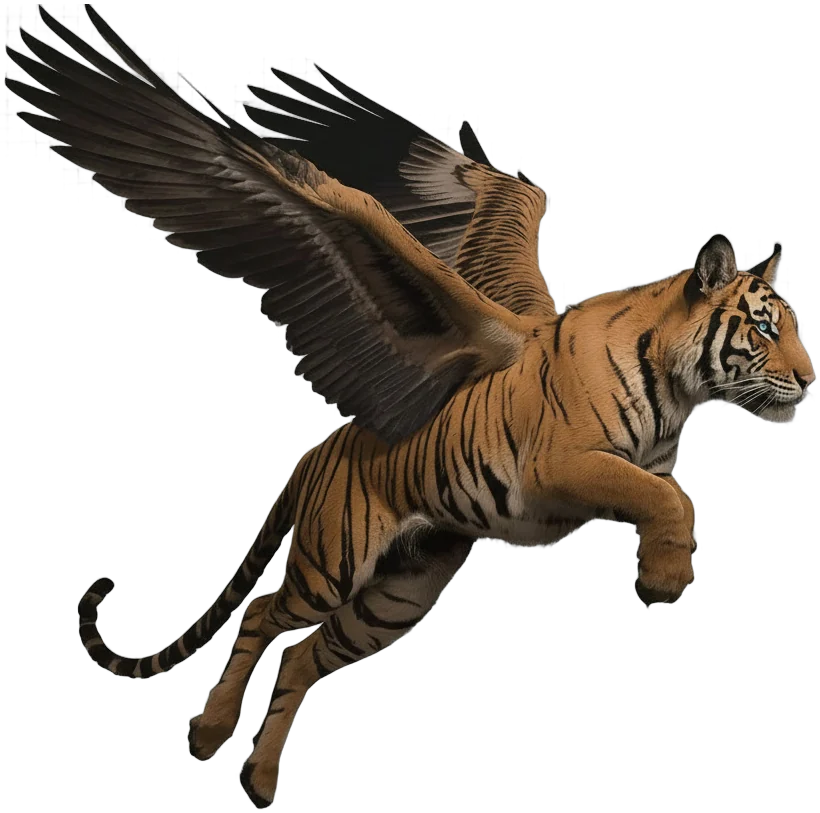
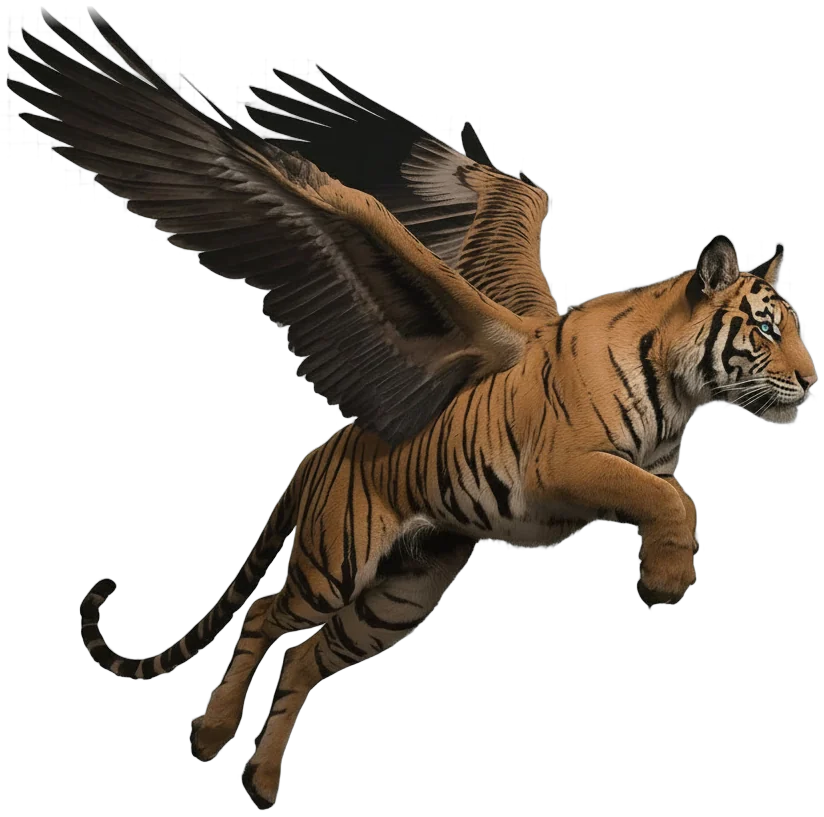
Vayun: hold still, sit fully below the nav bar, soften the clipped feather tip
Claude-Session: https://claude.ai/code/session_01Xr8Eng3FSk5QKfdhj2ow2v

diff --git a/index.html b/index.html
@@ -74,14 +74,9 @@
     }
   /* Vayun, the winged tiger, gliding through the sky band above the video */
   .sky-vayun { position: absolute; z-index: -2; pointer-events: none; height: auto;
-    width: min(calc(var(--hero-h) * .5), 34vw); left: 9vw;
-    top: calc(var(--hero-top) - var(--hero-h) * .5);
-    filter: brightness(.93) saturate(1.05) drop-shadow(0 6px 14px rgba(40, 10, 40, .35));
-    animation: vayun-glide 26s ease-in-out infinite alternate; }
-  @keyframes vayun-glide {
-    0%   { transform: translate(0, 0) rotate(-2deg); }
-    50%  { transform: translate(14vw, -1.2vw) rotate(1deg); }
-    100% { transform: translate(28vw, .4vw) rotate(-1deg); } }
+    width: min(calc(var(--hero-h) * .5), 34vw); left: 12vw;
+    top: calc(var(--hero-top) - var(--hero-h) * .45 + 14px);
+    filter: brightness(.93) saturate(1.05) drop-shadow(0 6px 14px rgba(40, 10, 40, .35)); }
   html[data-hero="hidden"] .sky-vayun { display: none; }
   .sky-clouds { position: absolute; left: 0; top: 0; width: 100%; height: calc(var(--hero-top) + var(--hero-h) * .3); z-index: -2; pointer-events: none; }
   .albums { position: relative; }
@@ -99,7 +94,7 @@
   .sky-clouds .sky-sparkles circle:nth-child(3n)   { animation-duration: 5.5s; animation-delay: -2s; }
   .sky-clouds .sky-sparkles circle:nth-child(3n+1) { animation-duration: 3.2s; animation-delay: -1s; }
   @keyframes twinkle { 0%, 100% { opacity: .25; } 50% { opacity: .95; } }
-  @media (prefers-reduced-motion: reduce) { .sky-clouds circle, .sky-vayun, .jolene img, .jolene-mist { animation: none !important; } }
+  @media (prefers-reduced-motion: reduce) { .sky-clouds circle, .jolene img, .jolene-mist { animation: none !important; } }
   body::after { content: ""; position: fixed; inset: 0; z-index: -1; pointer-events: none; }
   .forest-bg { position: absolute; left: 0; right: 0; bottom: 0; z-index: -1; pointer-events: none;
     top: calc(var(--hero-top) + var(--hero-h) * .2);
@@ -561,7 +556,7 @@
 </head>
 <body>
 <div class="forest-bg" aria-hidden="true"><div></div></div>
-<img class="sky-vayun" src="vayun.webp" alt="" aria-hidden="true" width="820" height="813" decoding="async">
+<img class="sky-vayun" src="vayun.webp" alt="" aria-hidden="true" width="824" height="817" decoding="async">
 <!-- Sunset clouds (and one unicorn) floating in the background sky -->
 <svg class="sky-clouds" viewBox="0 0 1600 700" preserveAspectRatio="xMidYMid slice" aria-hidden="true" focusable="false">
   <g class="sky-sparkles" fill="#fff4dc">
